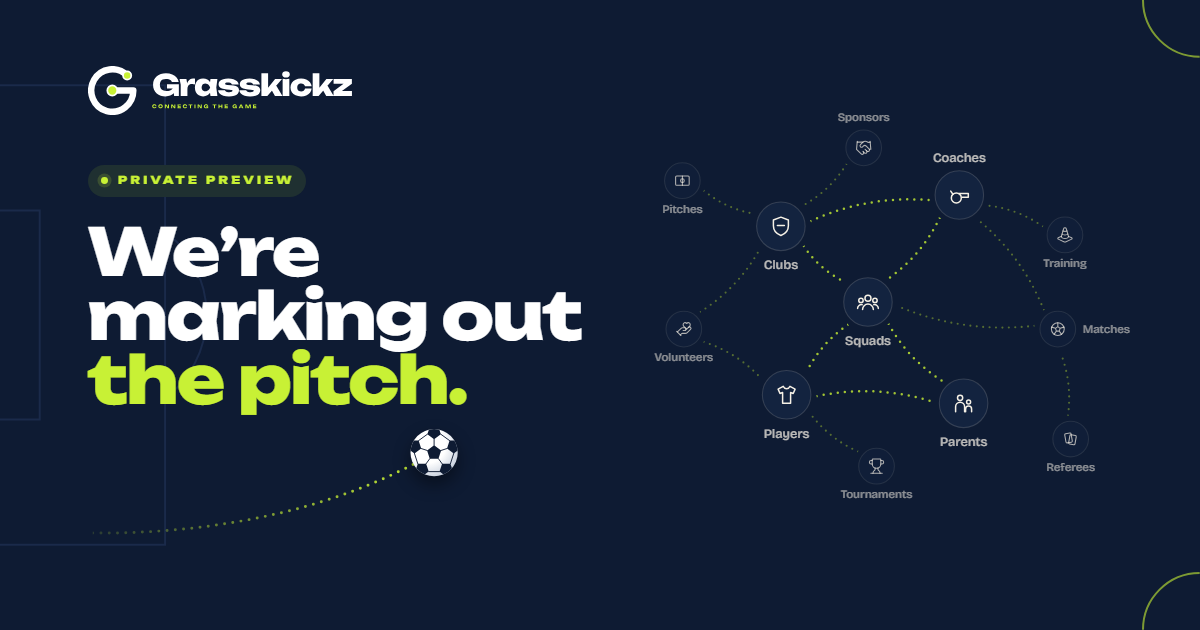
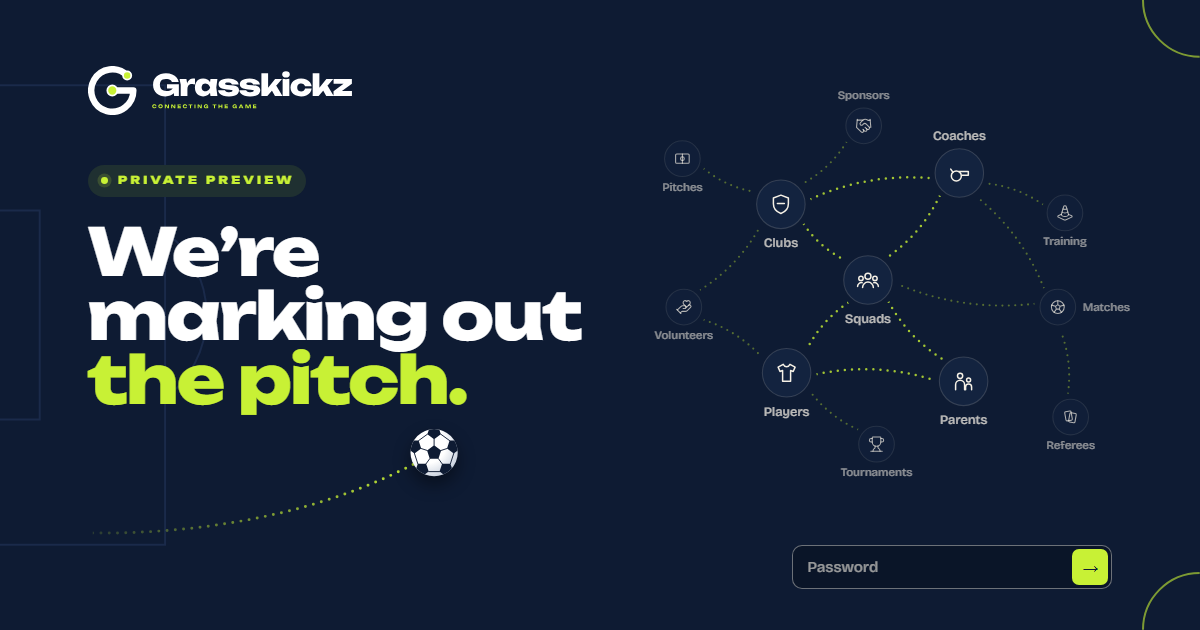
Landing as the preview lock: /__preview/ base, password form, no photo
Owner's final design: this page is the lock in front of grasskickz.com
and the app. Every URL now starts with /__preview/, where the lock
Worker serves the page's files so they never collide with the app's
/assets/; the share image moves there too. "Open Grasskickz" is now the
label of the password bar (clicking it puts the cursor in the bar). The
bar posts password and next (filled in by the Worker) to
/__preview/unlock on the same host; a wrong password comes back with
#wrong and a small landing.js shows "Wrong password" under the bar.
_headers allows only same-site scripts and forms. The photo lock screen
and lock/photo.jpg are removed; the local preview server maps
/__preview/ the way the Worker does.

diff --git a/landing/src/index.html b/landing/src/index.html
@@ -15,7 +15,7 @@
   <meta property="og:url" content="https://grasskickz.com/">
   <meta property="og:title" content="Grasskickz">
   <meta property="og:description" content="Grasskickz is in private preview: clubs, squads, families and matches, together in one place.">
-  <meta property="og:image" content="https://grasskickz.com/assets/share.png">
+  <meta property="og:image" content="https://grasskickz.com/__preview/assets/share.png">
   <meta property="og:image:type" content="image/png">
   <meta property="og:image:width" content="1200">
   <meta property="og:image:height" content="630">
@@ -23,17 +23,18 @@
   <meta name="twitter:card" content="summary_large_image">
   <meta name="twitter:title" content="Grasskickz">
   <meta name="twitter:description" content="Grasskickz is in private preview: clubs, squads, families and matches, together in one place.">
-  <meta name="twitter:image" content="https://grasskickz.com/assets/share.png">
+  <meta name="twitter:image" content="https://grasskickz.com/__preview/assets/share.png">
   <meta name="twitter:image:alt" content="Grasskickz. We’re marking out the pitch.">
 
-  <link rel="icon" href="/favicon.ico" sizes="32x32">
-  <link rel="icon" href="/assets/favicon.svg" type="image/svg+xml">
-  <link rel="apple-touch-icon" href="/assets/apple-touch-icon.png">
-  <link rel="preload" href="/fonts/unbounded-latin-800-normal.woff2" as="font" type="font/woff2" crossorigin>
-  <link rel="preload" href="/fonts/bricolage-grotesque-latin-500-normal.woff2" as="font" type="font/woff2" crossorigin>
-  <link rel="stylesheet" href="/styles.css">
-  <link rel="stylesheet" href="/kick.css">
-  <link rel="stylesheet" href="/hub.css">
+  <link rel="icon" href="/__preview/favicon.ico" sizes="32x32">
+  <link rel="icon" href="/__preview/assets/favicon.svg" type="image/svg+xml">
+  <link rel="apple-touch-icon" href="/__preview/assets/apple-touch-icon.png">
+  <link rel="preload" href="/__preview/fonts/unbounded-latin-800-normal.woff2" as="font" type="font/woff2" crossorigin>
+  <link rel="preload" href="/__preview/fonts/bricolage-grotesque-latin-500-normal.woff2" as="font" type="font/woff2" crossorigin>
+  <link rel="stylesheet" href="/__preview/styles.css">
+  <link rel="stylesheet" href="/__preview/kick.css">
+  <link rel="stylesheet" href="/__preview/hub.css">
+  <script src="/__preview/landing.js" defer></script>
 </head>
 <body>
   <div class="pitch" aria-hidden="true">
@@ -51,7 +52,7 @@
 
   <main class="stage">
     <section class="intro">
-      <img class="lockup" src="/assets/grasskickz-lockup.svg" width="1084" height="199" alt="Grasskickz. Connecting the game.">
+      <img class="lockup" src="/__preview/assets/grasskickz-lockup.svg" width="1084" height="199" alt="Grasskickz. Connecting the game.">
       <p class="pill"><span class="pill-dot"></span>Private preview</p>
       <h1 class="headline"><span>We’re</span> <span>marking out</span> <span class="headline-lime">the pitch.</span></h1>
       <svg class="kick" viewBox="0 0 640 240" aria-hidden="true" focusable="false">
@@ -216,15 +217,16 @@
       </svg>
     </figure>
 
-    <div class="corner">
-      <a class="open-app" id="team" href="https://app.grasskickz.com/home">Open Grasskickz<span class="open-app-arrow" aria-hidden="true">→</span></a>
-      <form class="pass" method="post" action="https://app.grasskickz.com/__preview/unlock">
-        <label class="pass-label" for="pass">Password</label>
-        <input type="hidden" name="next" value="/home">
+    <form class="corner" method="post" action="/__preview/unlock">
+      <label class="open-app" for="pass">Open Grasskickz<span class="open-app-arrow" aria-hidden="true">→</span></label>
+      <input type="text" name="username" value="Grasskickz" autocomplete="username" hidden>
+      <input type="hidden" name="next" value="/">
+      <div class="pass">
         <input class="pass-field" id="pass" name="password" type="password" placeholder="Password" autocomplete="current-password" autocapitalize="off" spellcheck="false" enterkeyhint="go" maxlength="64" required>
         <button class="pass-go" type="submit" aria-label="Enter"><span aria-hidden="true">→</span></button>
-      </form>
-    </div>
+      </div>
+      <p class="pass-wrong" id="pass-wrong" hidden>Wrong password</p>
+    </form>
   </main>
 </body>
 </html>

diff --git a/landing/src/styles.css b/landing/src/styles.css
@@ -169,9 +169,10 @@ body {
   color: var(--lime);
 }
 
-/* The way into the app, in the bottom-right corner: a quiet link and, under it, the password bar. */
+/* The way in, in the bottom-right corner: "Open Grasskickz" labels the password bar under it. */
 
 .corner {
+  position: relative;
   display: flex;
   flex-direction: column;
   align-items: flex-end;
@@ -179,6 +180,7 @@ body {
   grid-column: 2;
   grid-row: 2;
   justify-self: end;
+  margin: 0;
 }
 
 .open-app {
@@ -191,6 +193,7 @@ body {
   color: var(--muted);
   font-size: 15px;
   text-decoration: none;
+  cursor: pointer;
 }
 
 .open-app-arrow {
@@ -224,16 +227,6 @@ body {
   position: relative;
   width: 320px;
   max-width: 100%;
-  margin: 0;
-}
-
-.pass-label {
-  position: absolute;
-  width: 1px;
-  height: 1px;
-  overflow: hidden;
-  clip-path: inset(50%);
-  white-space: nowrap;
 }
 
 .pass-field {
@@ -285,6 +278,20 @@ body {
 .pass-go:focus-visible {
   outline: 3px solid var(--cream);
   outline-offset: 2px;
+}
+
+.pass-field[aria-invalid='true'] {
+  border-color: #FF9E8F;
+}
+
+/* Under the bar, in the page margin, so the corner never shifts. */
+.pass-wrong {
+  position: absolute;
+  top: 100%;
+  right: 0;
+  margin: 8px 0 0;
+  color: #FF9E8F;
+  font-size: 14px;
 }
 
 
@@ -344,6 +351,11 @@ body {
 
   .pass {
     width: 100%;
+  }
+
+  .pass-wrong {
+    position: static;
+    margin: 0;
   }
 
   /* The bar spans the bottom of the screen; the corner arc steps aside. */

diff --git a/landing/src/landing.js b/landing/src/landing.js
@@ -1,0 +1,10 @@
+// The lock sends a wrong password back to the same address with #wrong.
+if (location.hash === '#wrong') {
+  const note = document.getElementById('pass-wrong');
+  const field = document.getElementById('pass');
+  note.hidden = false;
+  field.setAttribute('aria-invalid', 'true');
+  field.setAttribute('aria-describedby', note.id);
+  history.replaceState(null, '', location.pathname + location.search);
+  field.focus();
+}

diff --git a/landing/README.md b/landing/README.md
@@ -1,11 +1,11 @@
 # grasskickz.com landing
 
-The one-screen page at grasskickz.com, behind the private-preview lock screen. It is a static
+The one-screen page in front of grasskickz.com during the private preview. It is a static
 site for Cloudflare Pages and is separate from the web app in `frontend/`, which it never imports.
 
-- `src/` — the page (`index.html`; `styles.css` for the page, layout and the corner link,
+- `src/` — the page (`index.html`; `styles.css` for the page, layout and the corner password bar,
   `kick.css` for the kick-off line and ball, `hub.css` for the picture of grassroots football
-  (desktop only); no JavaScript), `_headers` for Pages, icons, the share card and `lock/photo.jpg`.
+  (desktop only); a tiny `landing.js` for the wrong-password note), `_headers` for Pages, icons and the share card.
 - `scripts/build.mjs` — copies `src/` to `dist/` and adds the two self-hosted font files
   (Unbounded ExtraBold, Bricolage Grotesque Medium) from the pinned `@fontsource` packages, so the
   page makes no requests to other hosts.
@@ -19,11 +19,11 @@ npm run check     # build, then W3C Nu checker on the HTML, CSS and SVGs (needs 
 npm run images    # re-render the share card and icons after changing the page or the mark
 ```
 
-Deploy by uploading `dist/` to the Pages project. The page sits behind the lock screen: a
-Cloudflare Worker on grasskickz.com shows one photo and a password field to everyone without the
-pass, and fetches this page from the Pages project for those who have it. `lock/photo.jpg` is
-that photo (the web app's `after-the-whistle.jpg`, see `frontend/public/landing/ASSET-NOTES.md`);
-the Worker serves it on the lock screen. The corner link opens the app.
+Deploy by uploading `dist/` to the Pages project. This page is the private-preview lock: the
+Worker in the backend repository shows it at every address on grasskickz.com until the password in
+the corner bar is right, then passes everything to the app. The Worker serves the page's own files
+under `/__preview/` (so they never collide with the app's paths), which is why every URL in
+`index.html` starts with it; a wrong password comes back with `#wrong`, which `landing.js` shows.
 
 The lockup (`assets/grasskickz-lockup.svg`) is the master artwork from the Grasskickz brand book
 (Concept F v2, primary dark lockup), taken from the book's vector paths, not redrawn. Replace it if
